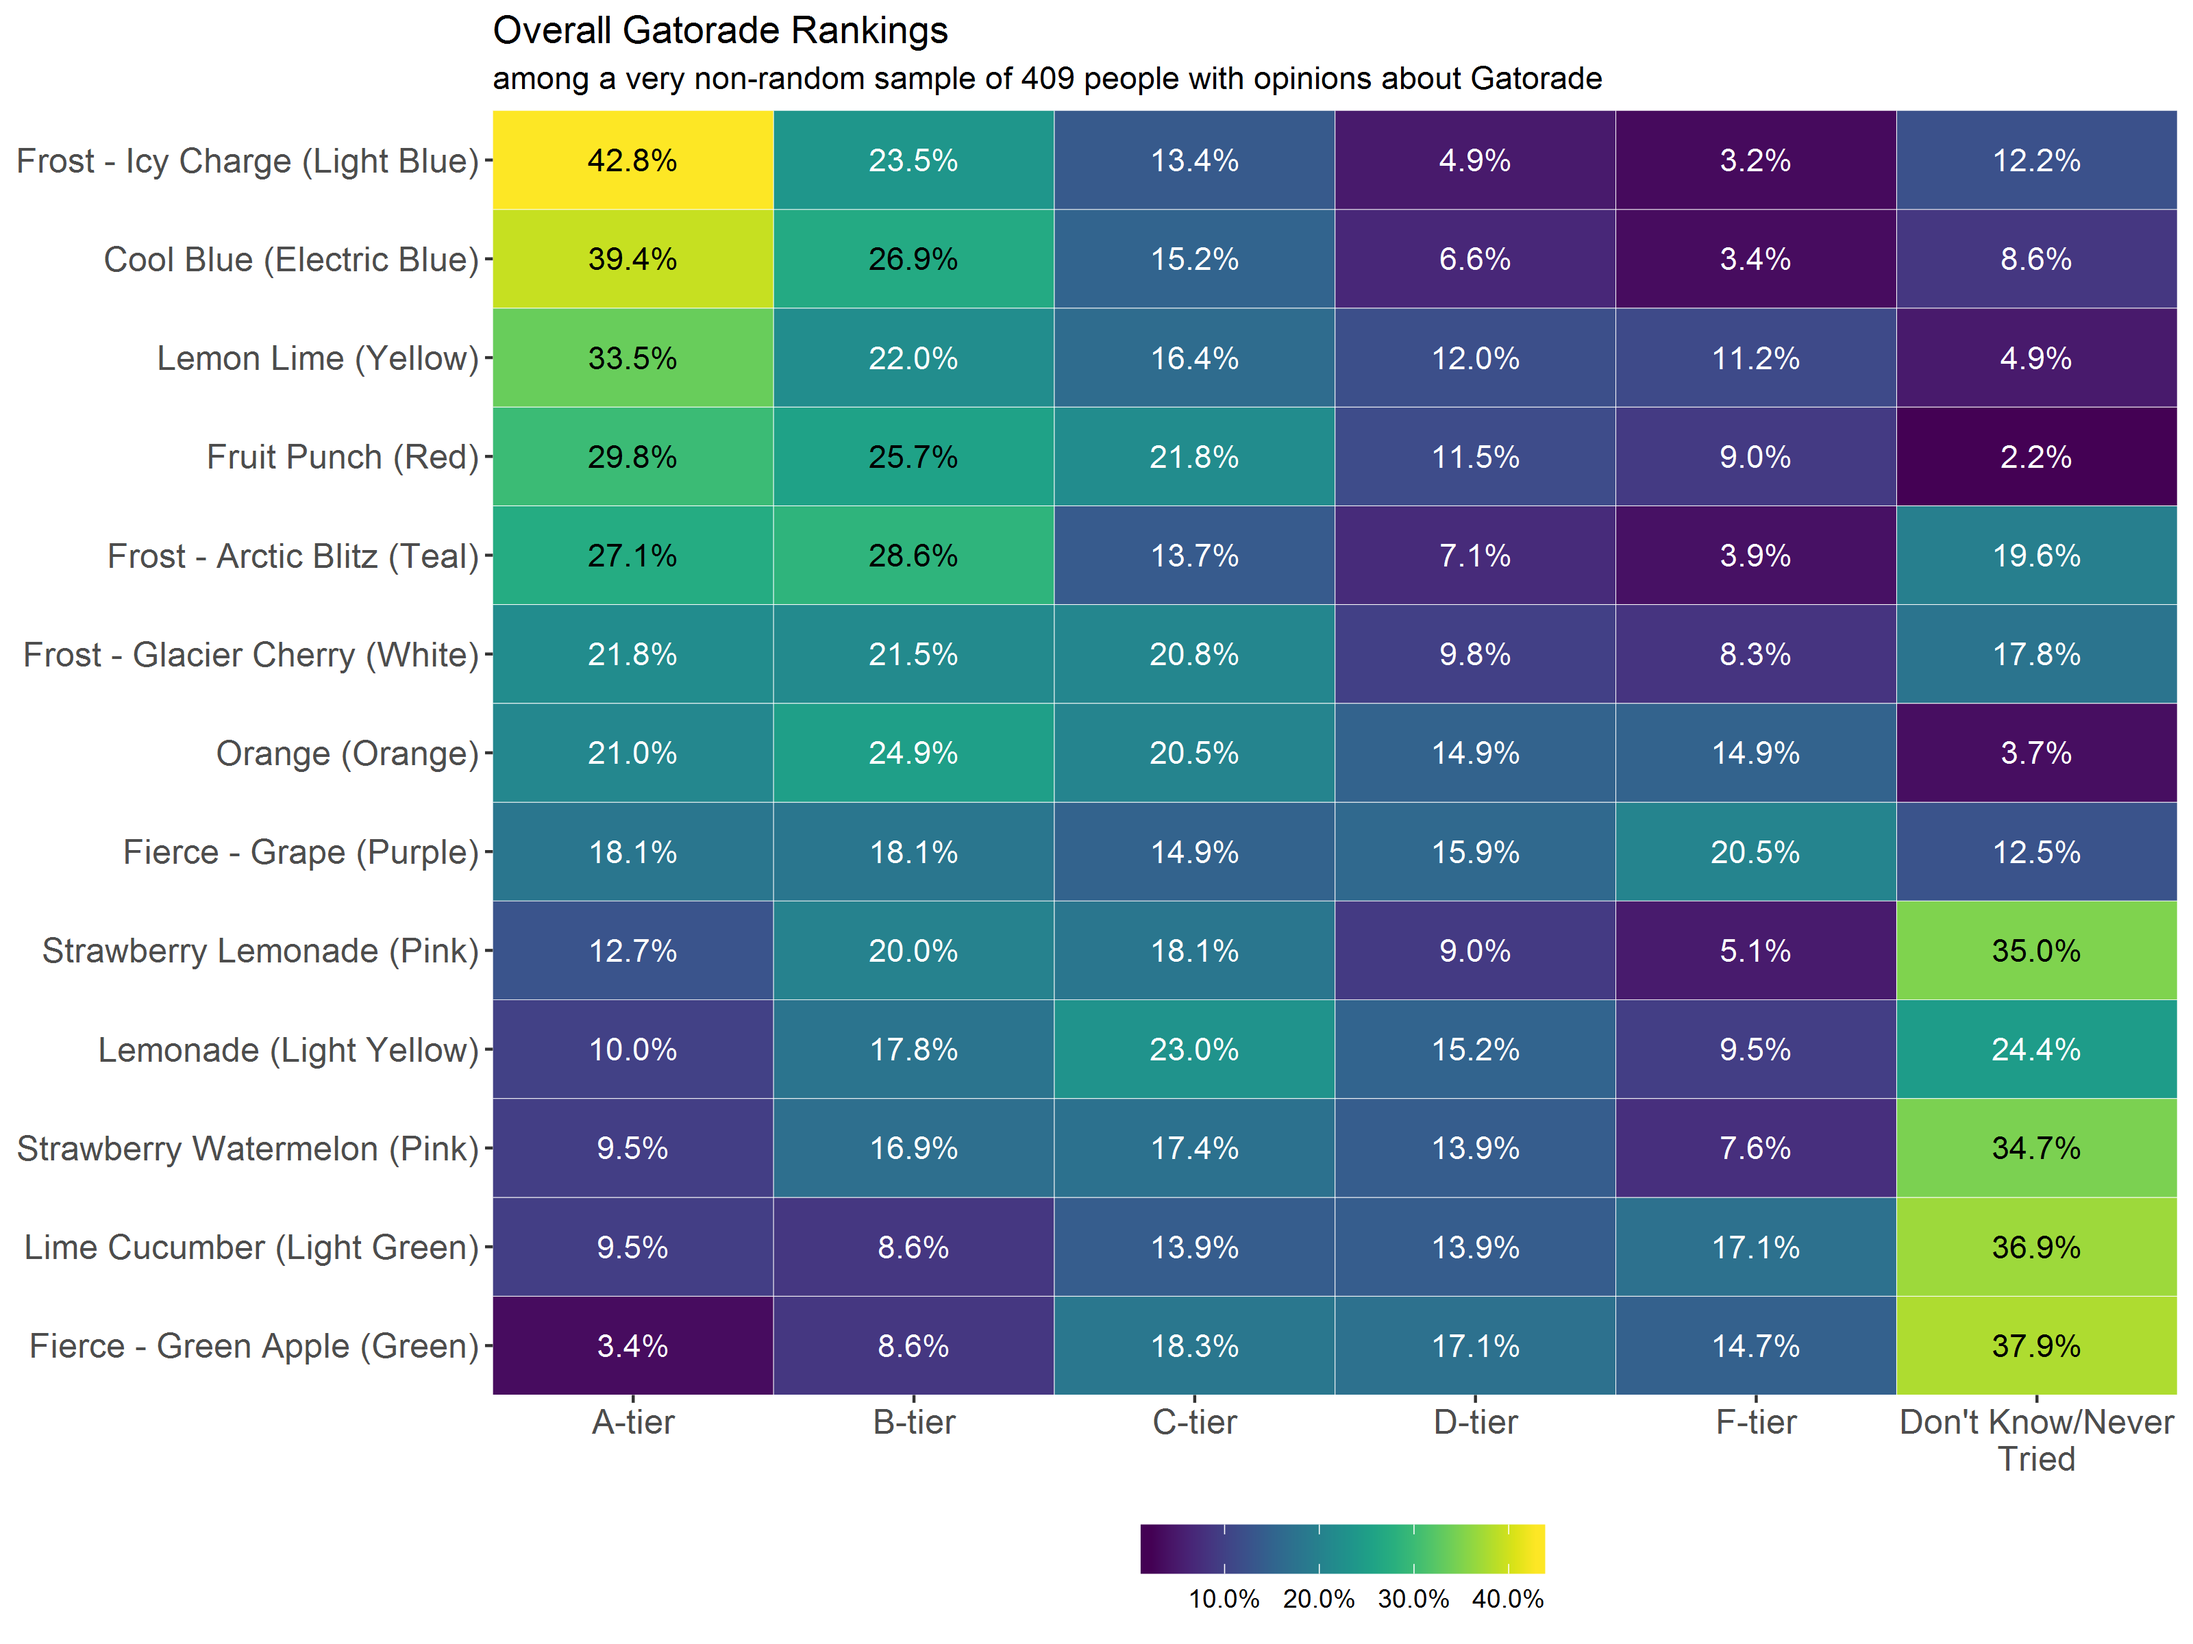
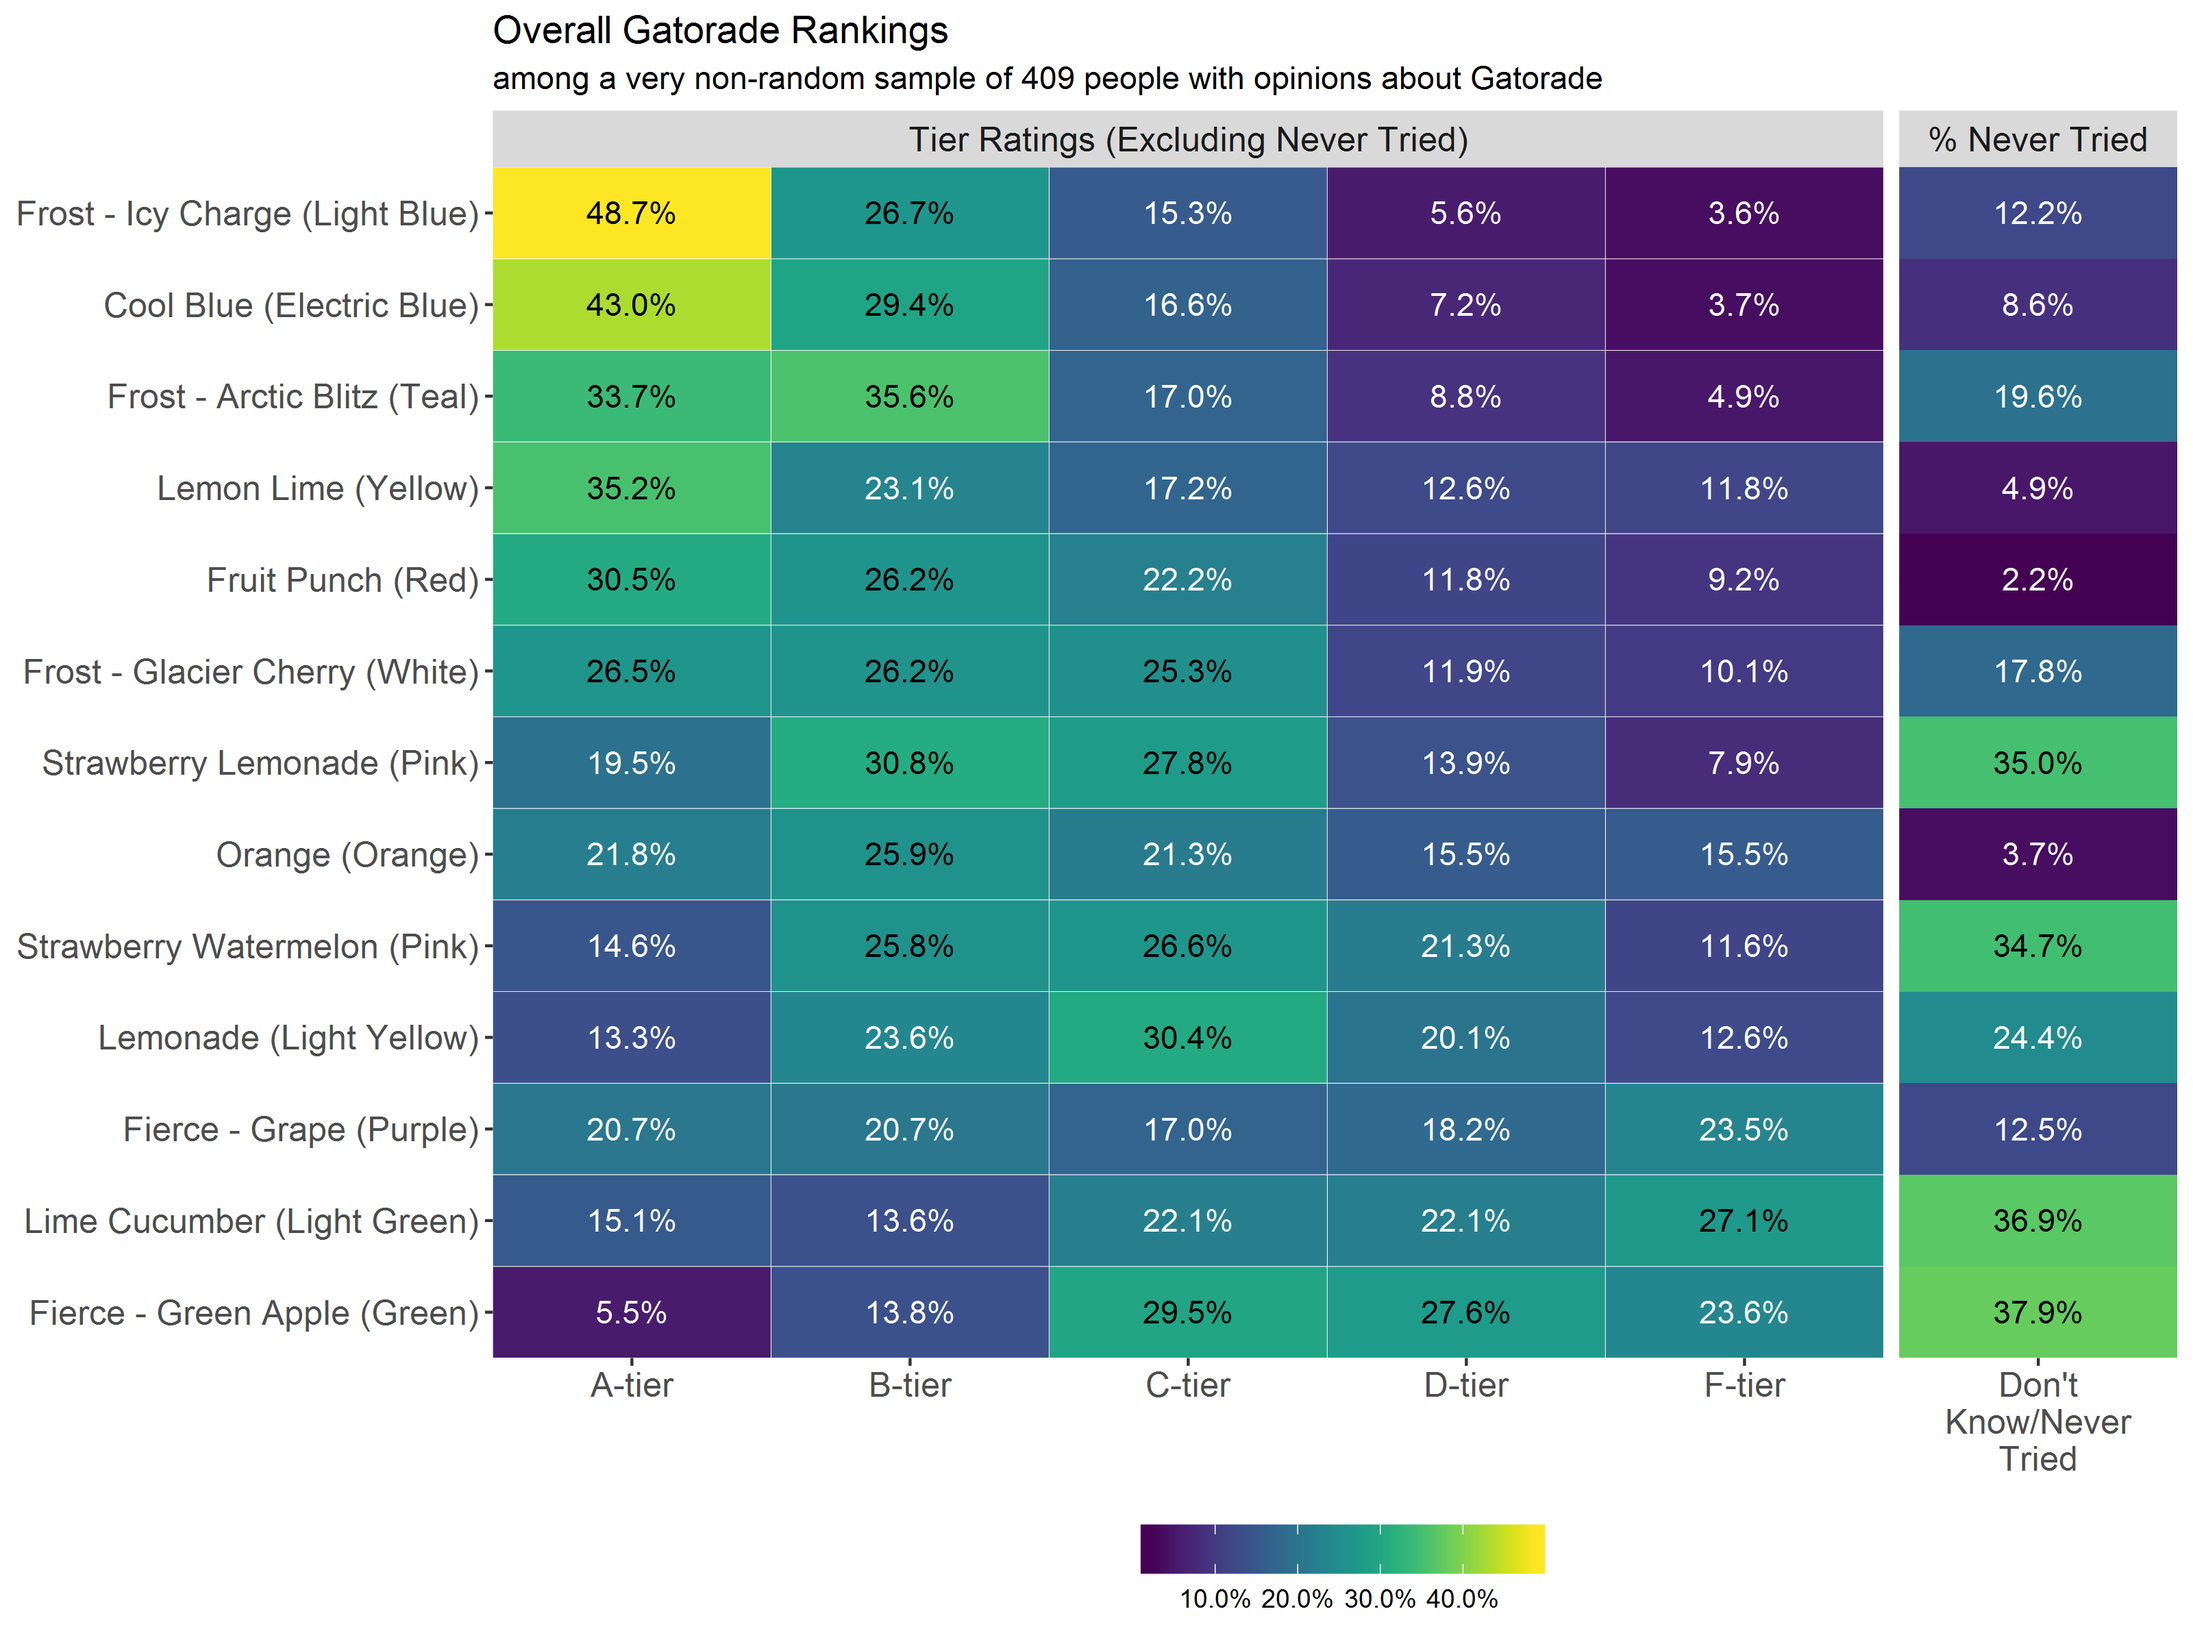
Updating overall rankigns chart & analysis

diff --git a/_posts/2020-05-21-Definitive-Gatorade-Ranking.md b/_posts/2020-05-21-Definitive-Gatorade-Ranking.md
@@ -17,9 +17,11 @@ Side note: there are about a billion different variants of Gatorade out there on
 Definitive Gatorade Ranking
 --------------
 
-Overall, the two blue Gatorades top the charts of public opinion, with Icy Charge from the Frost series narrowly leading Cool Blue. The two more classic offerings, Lemon Lime and Fruit Punch, come in at third and fourth place. Respondents were most divided on Fierce Grape; 36% of respondents rated the flavor as both A/B tier and D/F-tier -- with the strongest intensity of negative sentiment at 21% F-tier rating. At the very bottom in the dumpster of public opinion, Fierce Green Apple sits as both the most unknown and most hated of flavors. 
+Overall, the three blue Gatorades top the charts of public opinion, with Icy Charge from the Frost series narrowly leading Cool Blue an Arctic Blitz. The two more classic offerings, Lemon Lime and Fruit Punch, come in at fourth and fifth place. Lime Cucumber received the highest amount of negative sentiment, with 27% of respondents who reported knowing/trying the flavor rating it as F-tier. At the very bottom in the dumpster of public opinion, Fierce Green Apple sits as both the most unknown and most hated of flavors. 
 
 Funnily enough, attitudes towards Orange Gatorade nearly matches my household consensus; half of respondents ranked Orange as A/B-tier, while the other half ranked it in the C/D/F-tiers. 
+
+_Note: The chart below shows the proportion of tier ratings with the "Don't Know/Never Tried" counts removed from the denominator. So the percentages can be interpreted as the percent of people that rated each type among everyone that had an opinion. The "Don't Know/Never Tried" percentages are shown next to the tier ratings. The chart is also rank sorted by Gatorade GPA_
 
 ![](https://raw.githubusercontent.com/GWarrenn/gwarrenn.github.io/gatorade-ranking/images/gatorade_ranking/1_overall_ratings.png)
 
